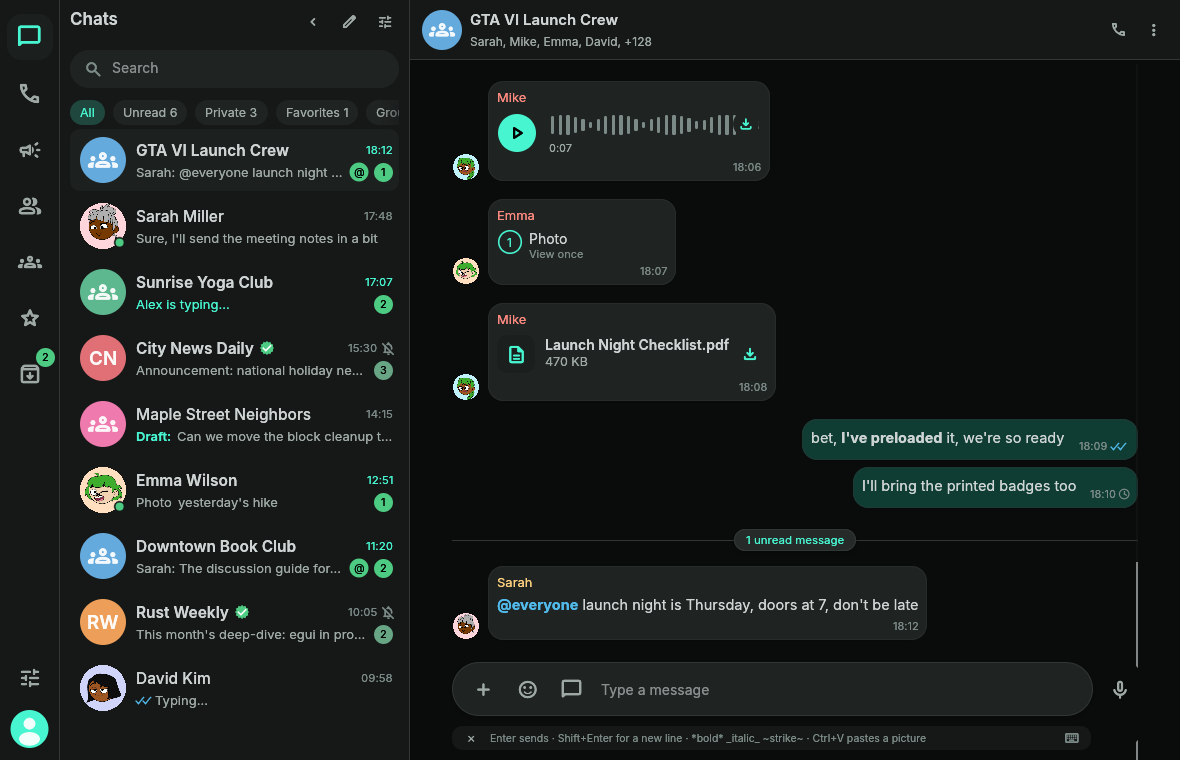
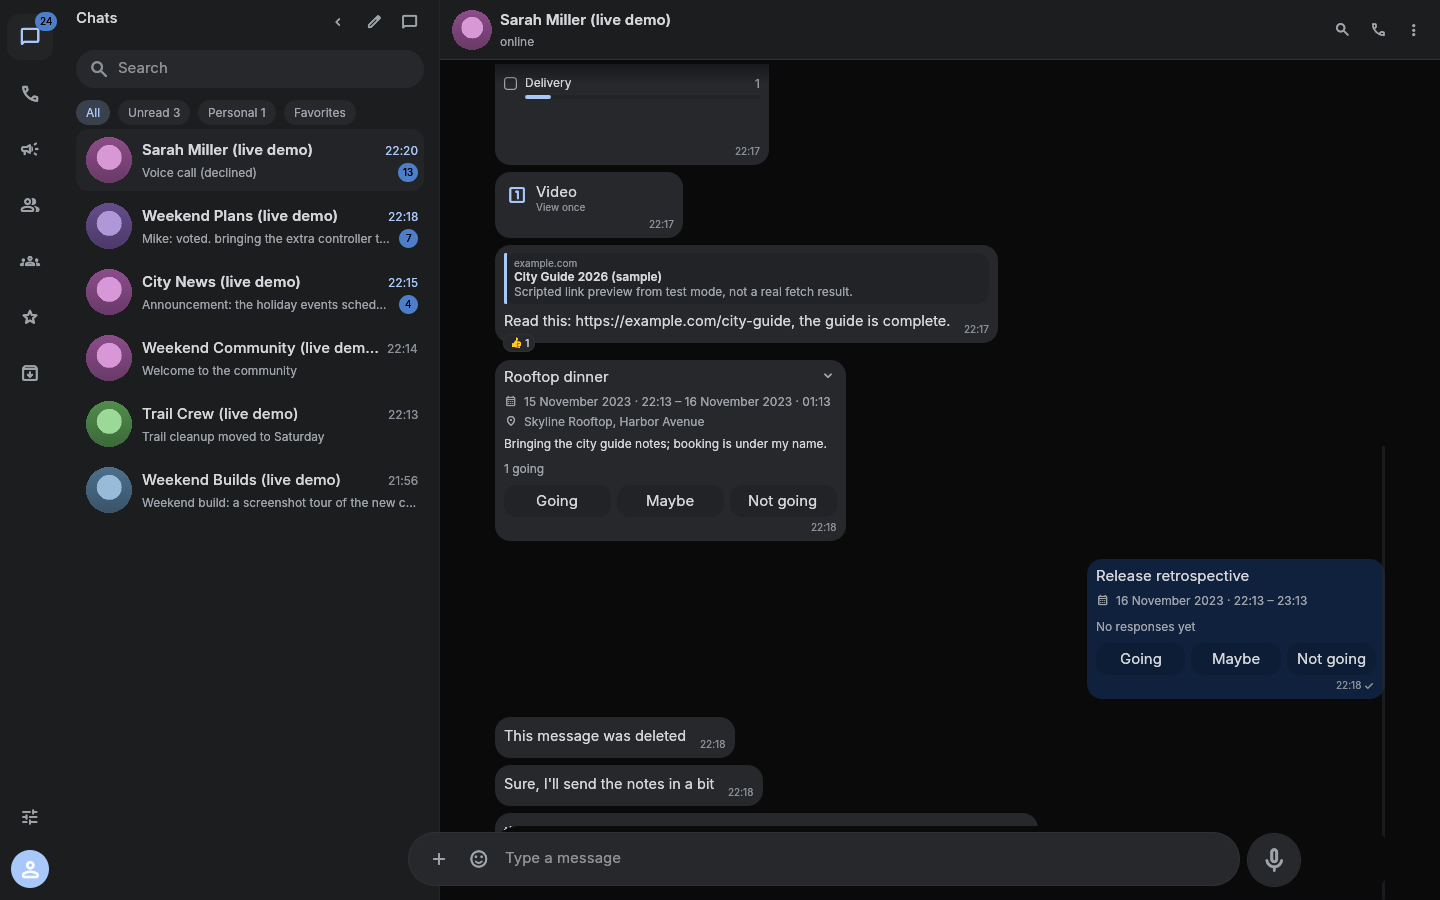
docs: refresh README with v1.0.0 screenshots and current install

diff --git a/README.md b/README.md
@@ -4,6 +4,10 @@
 
 ![Chats](docs/assets/zaprust-chats.png)
 
+![Conversation](docs/assets/zaprust-conversation.png)
+
+![Appearance](docs/assets/zaprust-appearance.png)
+
 ## Features
 
 - Chats, groups, communities, and channels
@@ -18,12 +22,6 @@
 
 ## Install
 
-Download the build for your system from [Releases](https://github.com/fanyzp/zaprust/releases):
-
-| Platform | File |
-|---|---|
-| Windows (x64 / ARM64) | `zaprust-windows-x86_64.exe`, `zaprust-windows-arm64.exe` |
-| Linux (x64 / ARM64) | `zaprust-linux-<arch>.deb`, `.rpm`, or `.AppImage` |
-| macOS (Apple Silicon) | `zaprust-macos-arm64` |
+Download `zaprust-linux-x86_64` from [Releases](https://github.com/fanyzp/zaprust/releases). Each release also carries `SHA256SUMS` and its signature `SHA256SUMS.sig`, so the download can be verified before running it.
 
 Run it, then link your phone with the QR code or a pairing code, the same way as WhatsApp Web.
